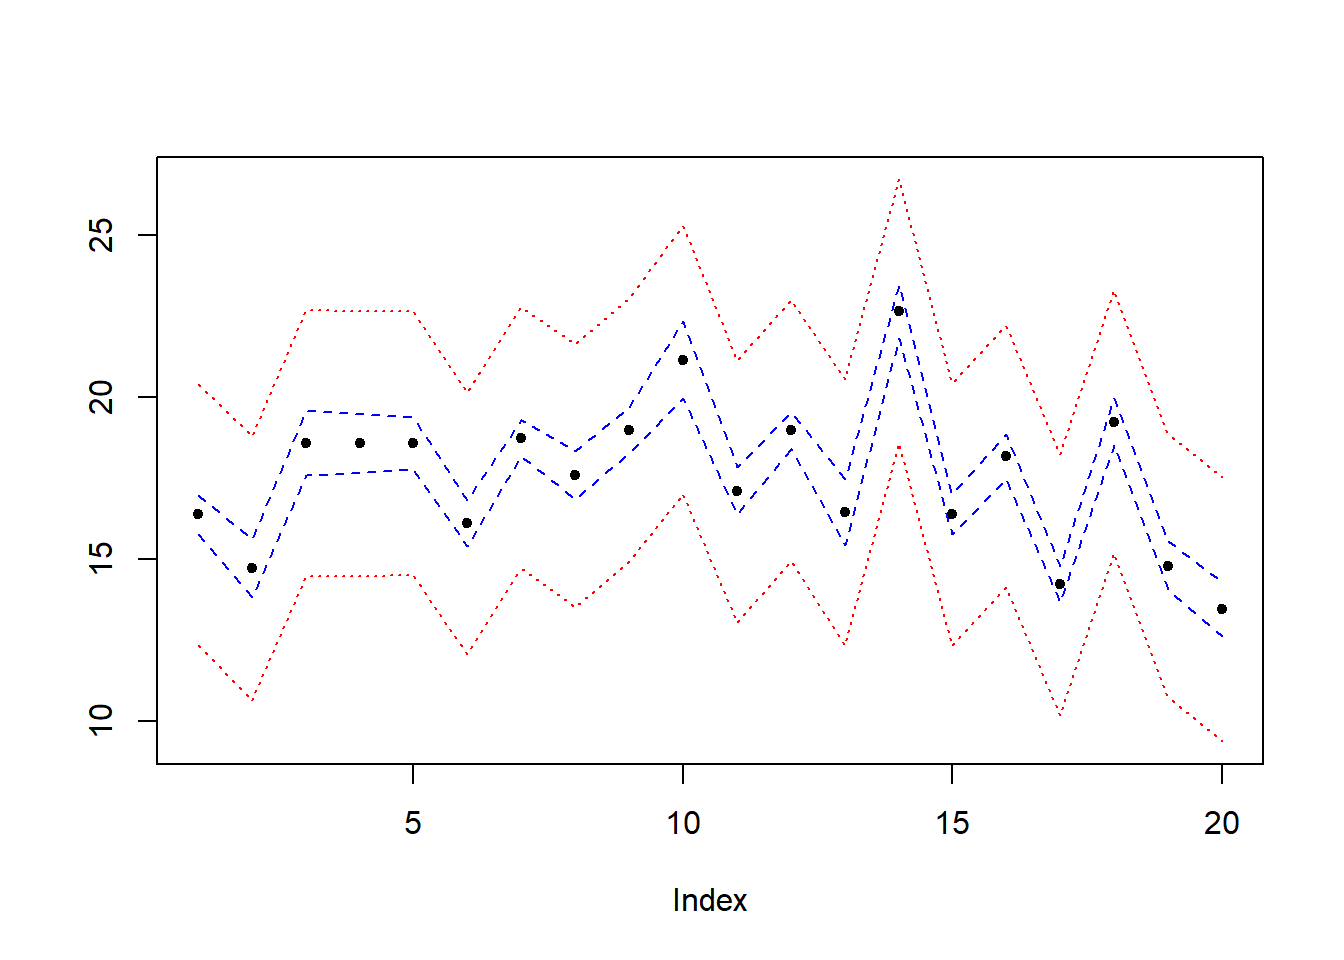
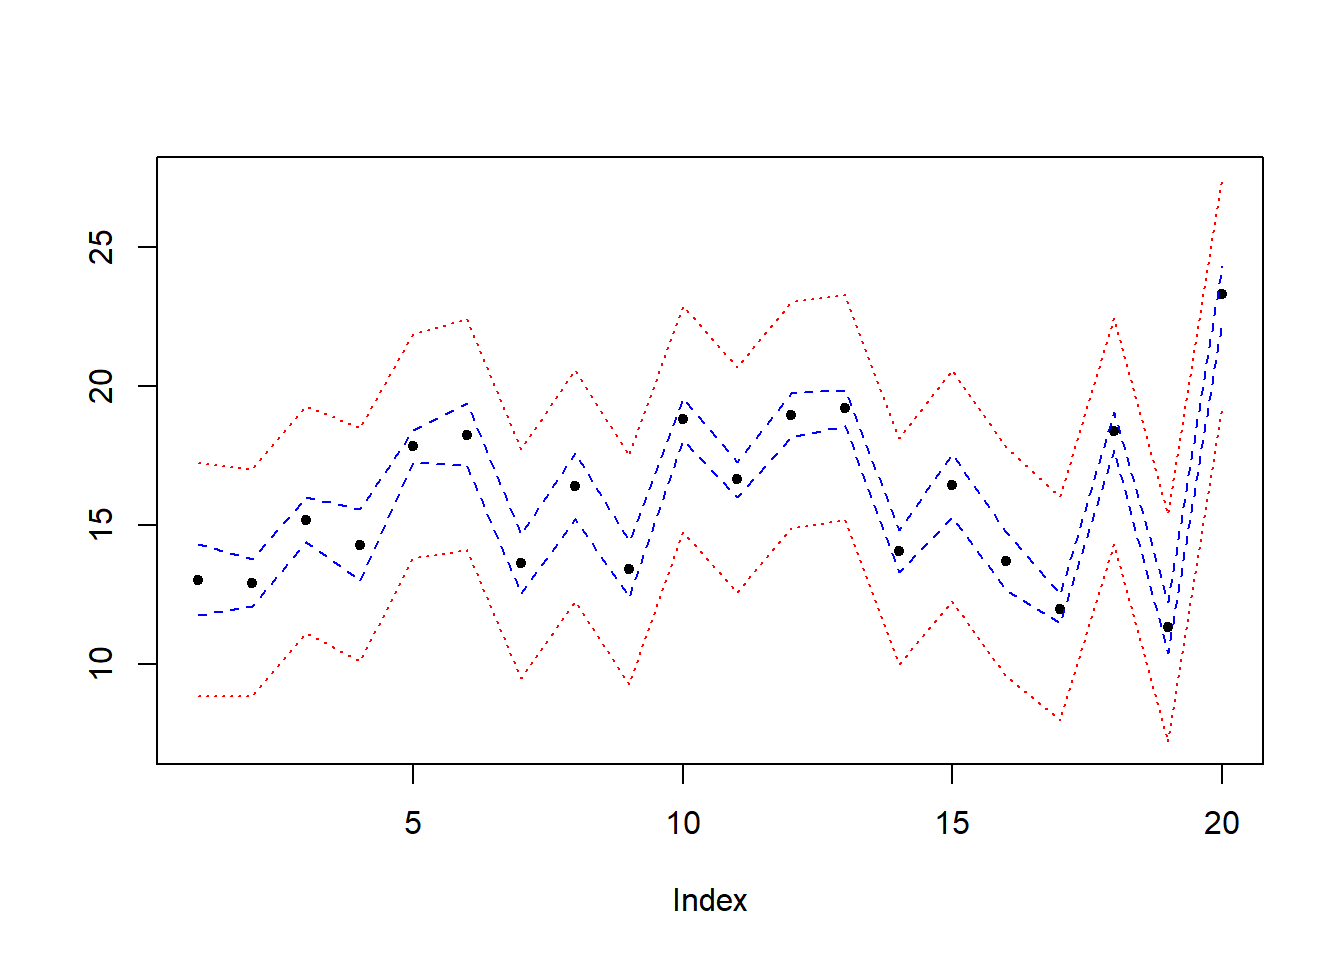
fix

diff --git a/modelliniowyprognozowanie.html b/modelliniowyprognozowanie.html
@@ -531,22 +531,22 @@ np &lt;- runif(n, min=50, max=144)
 new2&lt;-data.frame( youtube = yt, facebook=fb, newspaper=np )
 pred2p&lt;-predict(model, new2, interval = &quot;prediction&quot;)
 head(pred2p)</code></pre>
-<pre><code>##        fit      lwr      upr
-## 1 16.36907 12.33463 20.40351
-## 2 14.72063 10.63351 18.80776
-## 3 18.58315 14.47401 22.69229
-## 4 18.56617 14.47550 22.65683
-## 5 18.57287 14.50201 22.64373
-## 6 16.10741 12.05584 20.15899</code></pre>
+<pre><code>##        fit       lwr      upr
+## 1 13.03725  8.852794 17.22170
+## 2 12.92288  8.844905 17.00085
+## 3 15.19607 11.127876 19.26427
+## 4 14.29830 10.106414 18.49019
+## 5 17.82870 13.798408 21.85899
+## 6 18.25185 14.107676 22.39602</code></pre>
 <pre class="r"><code>pred2c&lt;-predict(model, new2, interval = &quot;confidence&quot;)
 head(pred2c)</code></pre>
 <pre><code>##        fit      lwr      upr
-## 1 16.36907 15.76445 16.97369
-## 2 14.72063 13.82987 15.61139
-## 3 18.58315 17.59629 19.57002
-## 4 18.56617 17.65930 19.47303
-## 5 18.57287 17.76001 19.38573
-## 6 16.10741 15.39741 16.81742</code></pre>
+## 1 13.03725 11.77293 14.30156
+## 2 12.92288 12.07510 13.77066
+## 3 15.19607 14.39665 15.99549
+## 4 14.29830 13.00959 15.58702
+## 5 17.82870 17.25240 18.40500
+## 6 18.25185 17.12800 19.37570</code></pre>
 <pre class="r"><code>plot(pred2c[,1], ylab=&quot;&quot;, ylim=c(min(pred2p[,2]), max(pred2p[,3])), pch=20)
 lines(pred2c[,2], col=&quot;blue&quot;, lty=2)
 lines(pred2p[,2], col=&quot;red&quot;, lty=3)
